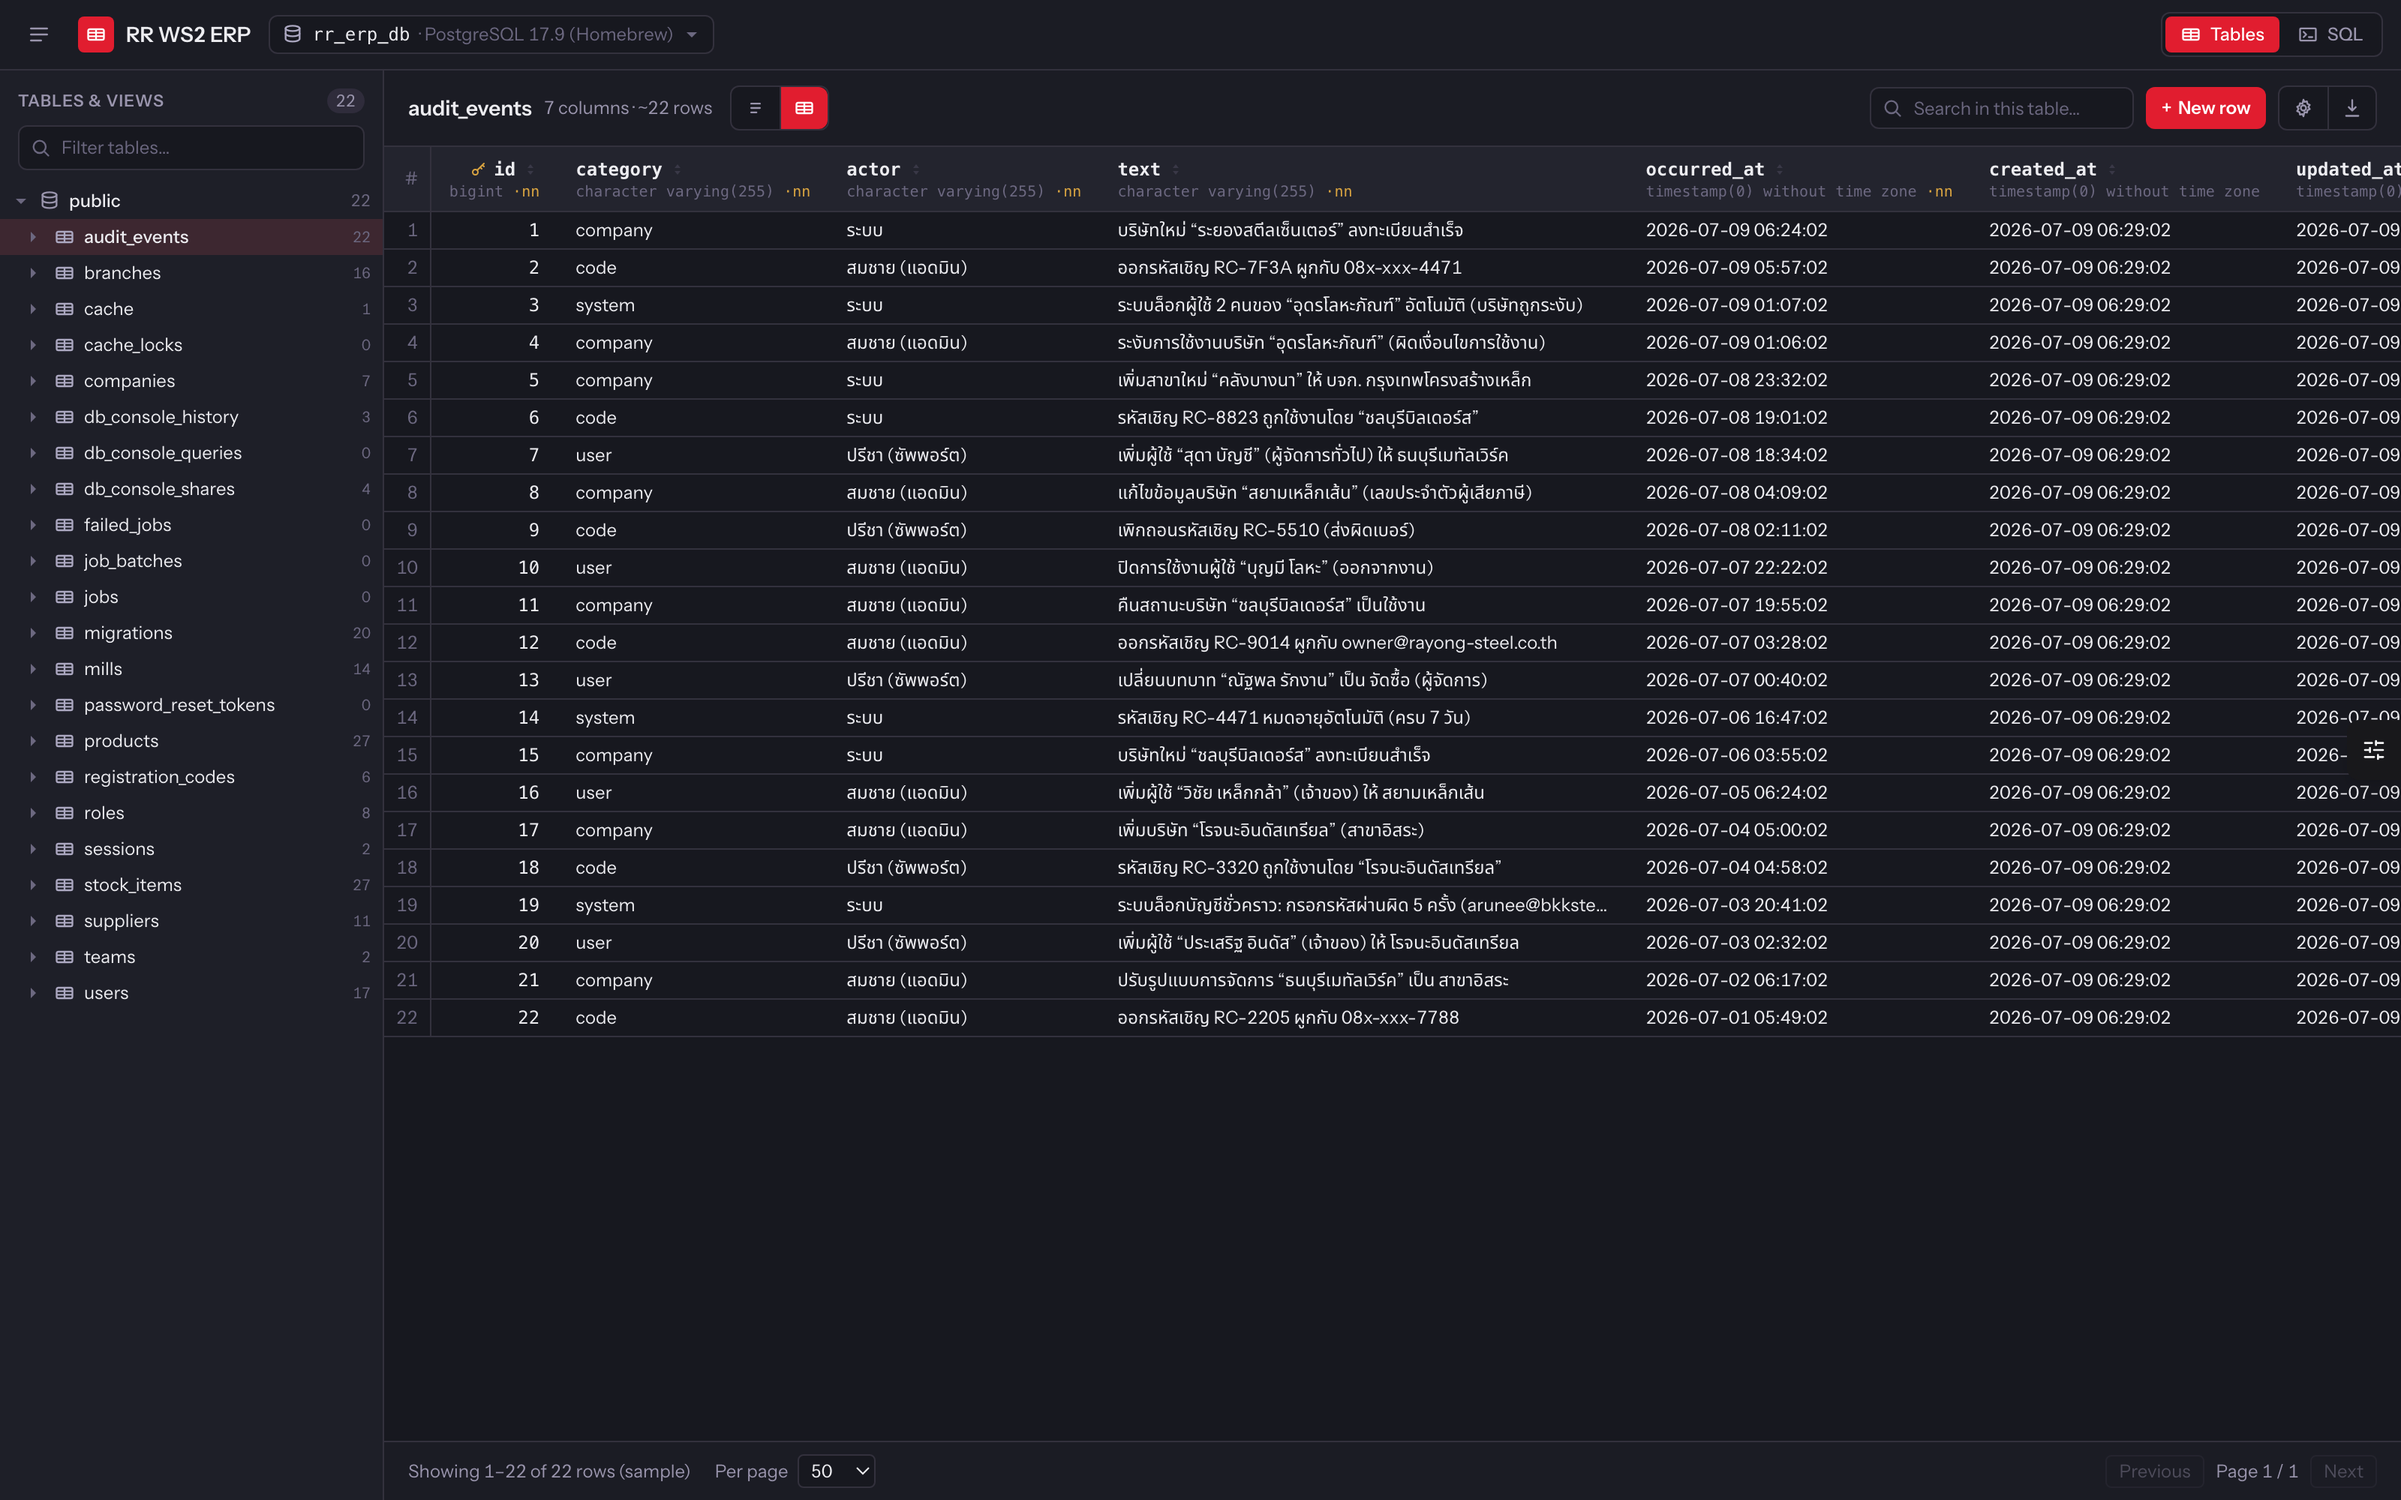
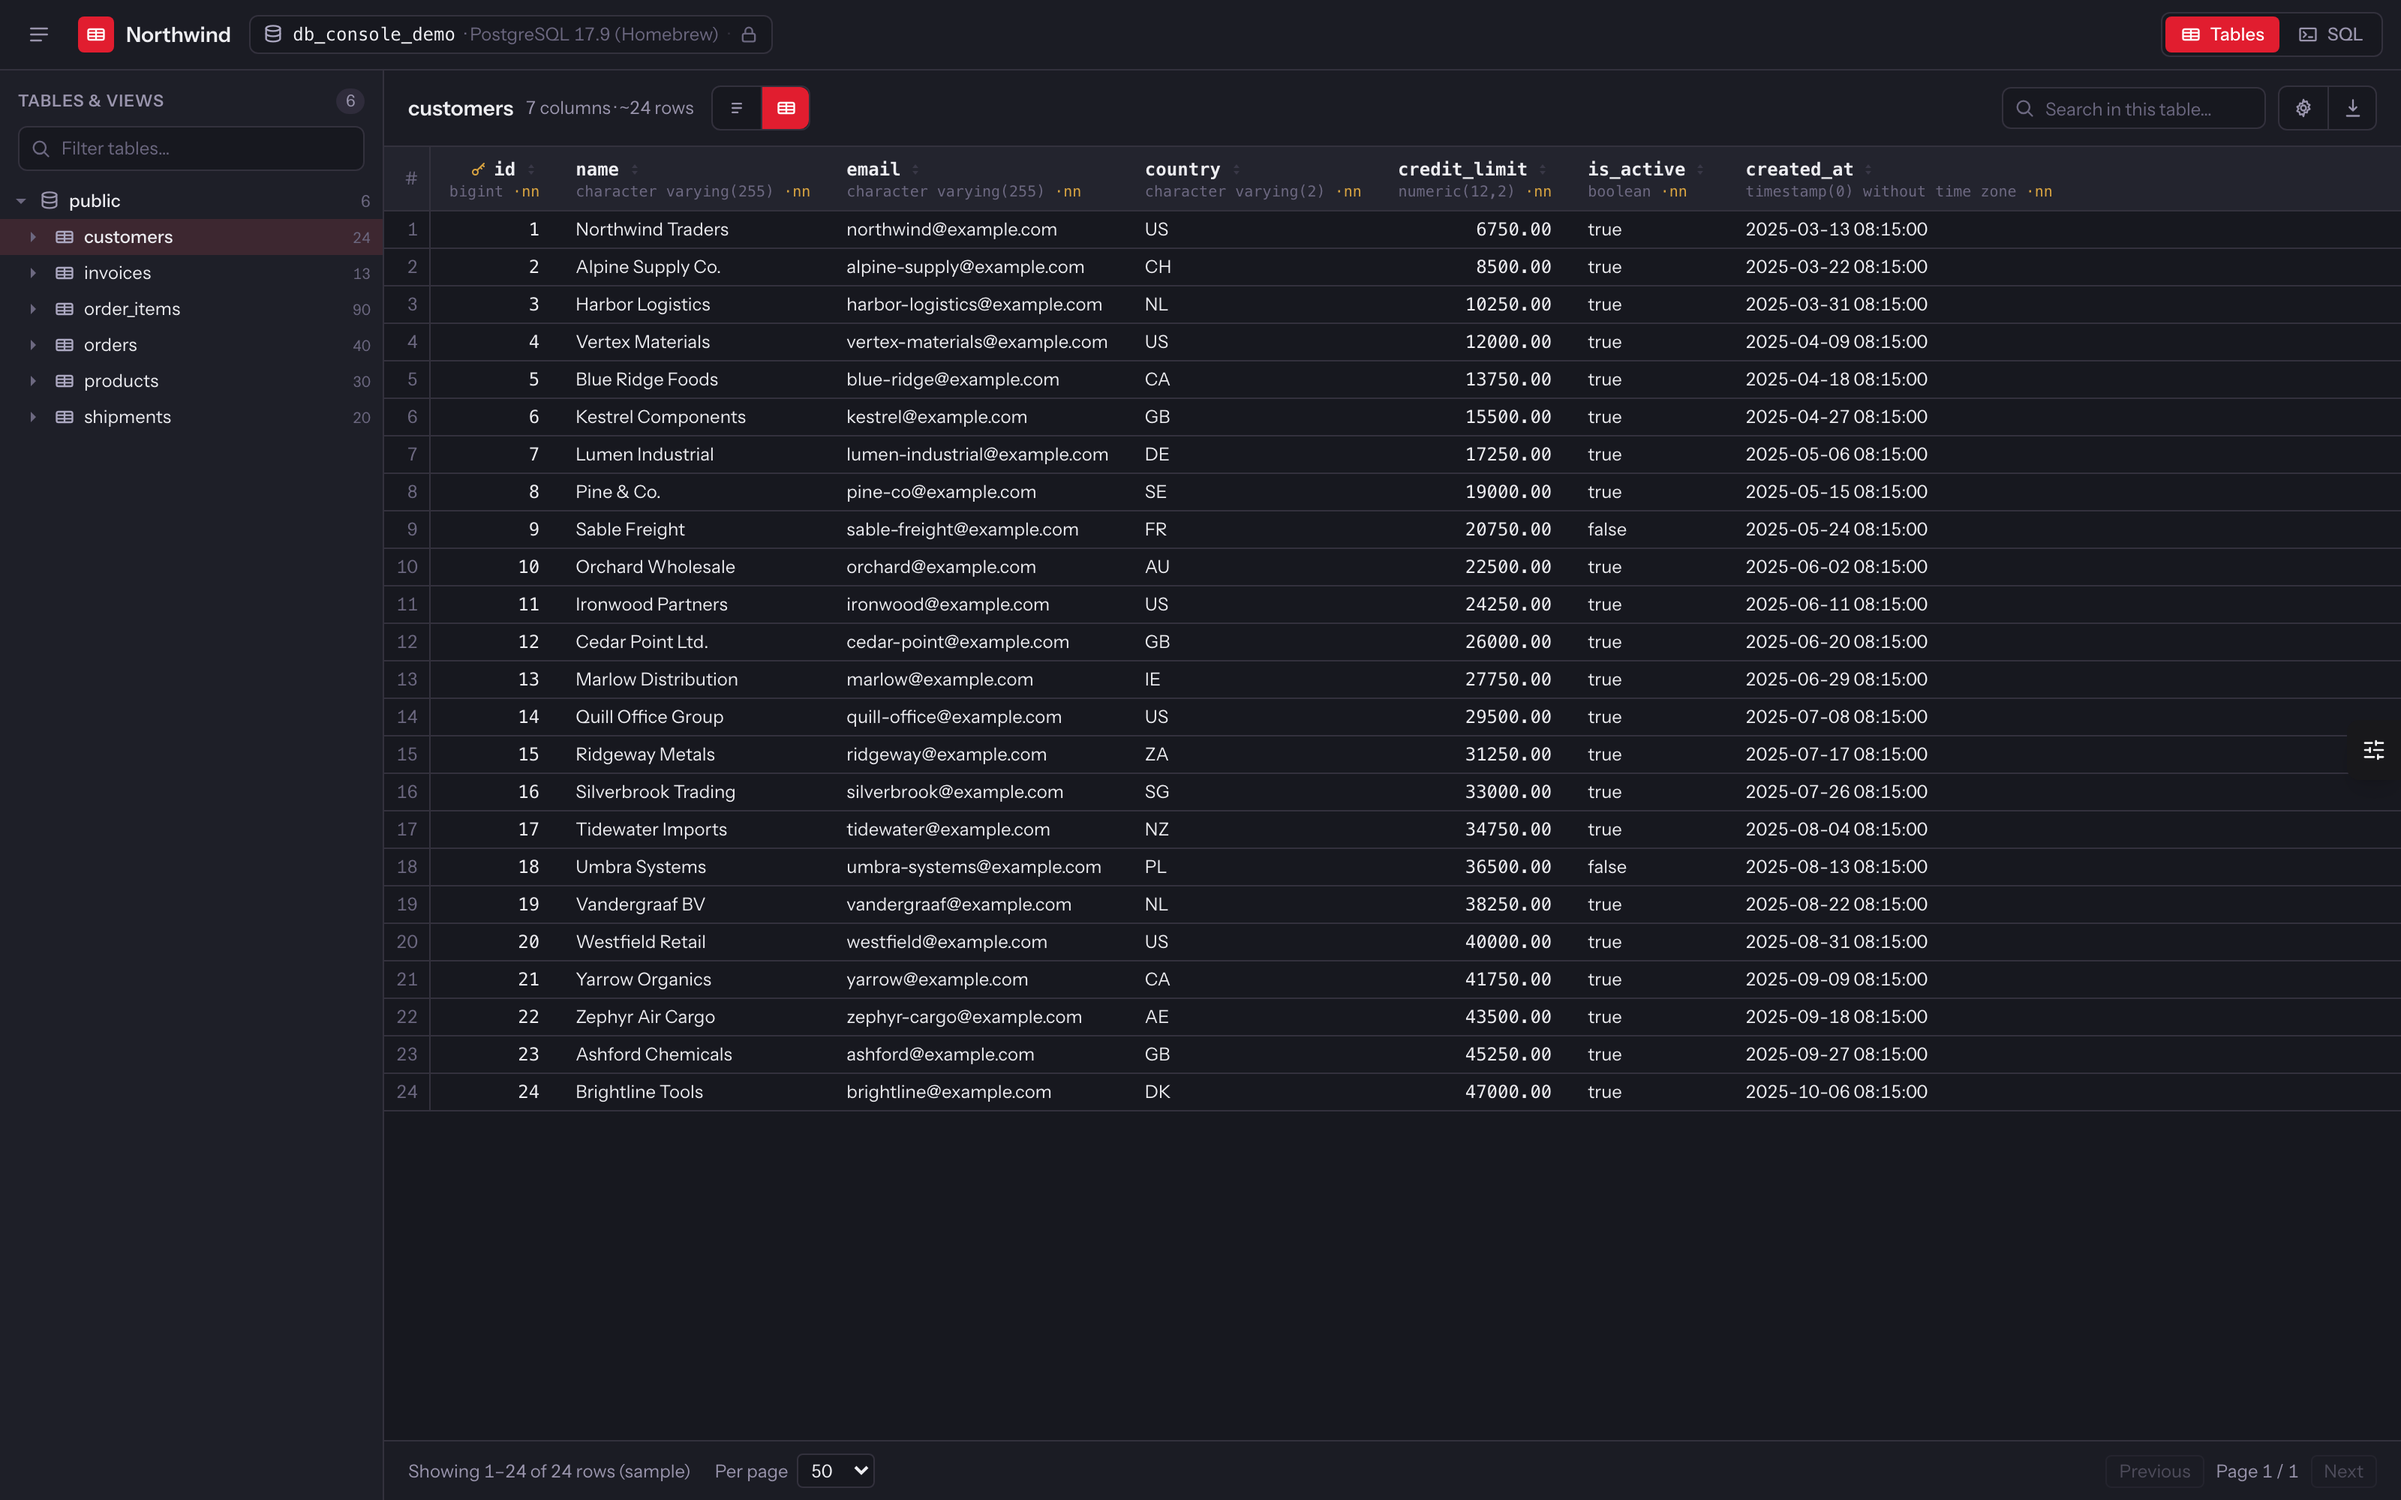
docs: re-shoot the screenshots against a neutral demo database
The first set leaked a host application's branding and business data.
Every shot now runs against art/demo-data.sql — a fictional six-table
schema seeded with invented companies — under a neutral brand name, and
a fourth shot shows the read-only guard rejecting a DELETE.

diff --git a/README.md b/README.md
@@ -22,6 +22,9 @@ time, saved queries, run history, EXPLAIN, and a share link.
 
 </details>
 
+<sub>Every screenshot runs against the fictional demo database in
+[`art/demo-data.sql`](art/demo-data.sql) — no real company or person appears in them.</sub>
+
 ## Requirements — read these first
 
 This package is deliberately narrow. If any of these do not hold, it will not work, and it says so rather than
@@ -131,6 +134,8 @@ typed confirmation**, whatever `confirm_writes` says, because it is one irrevers
 mode badge. A read-only connection sits next to a writable one without either being able to affect the other.
 
 ## Safety model
+
+![A DELETE rejected by the guard on a read-only connection](https://raw.githubusercontent.com/phattarachai/laravel-db-console/main/art/sql-guard.png)
 
 Layered, so no single check is load-bearing:
 
